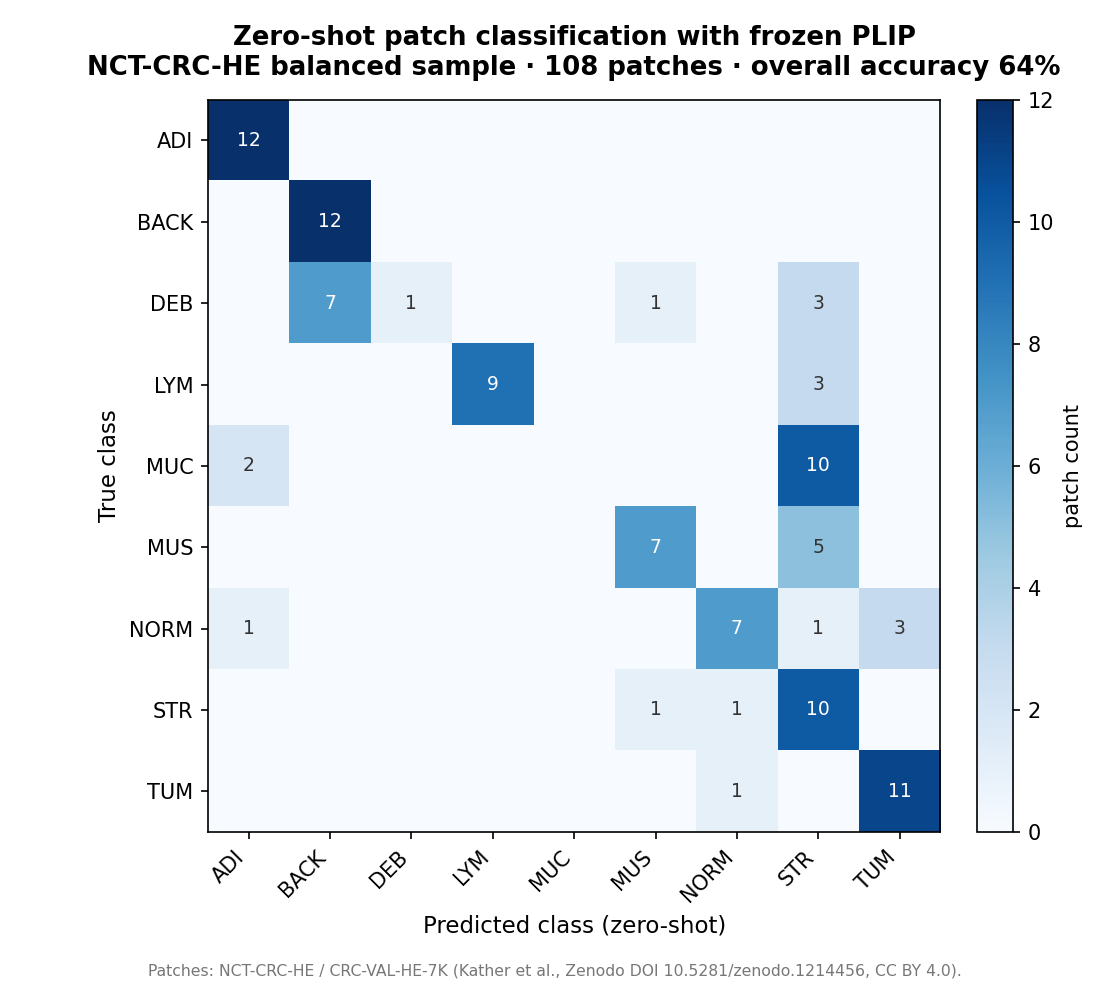
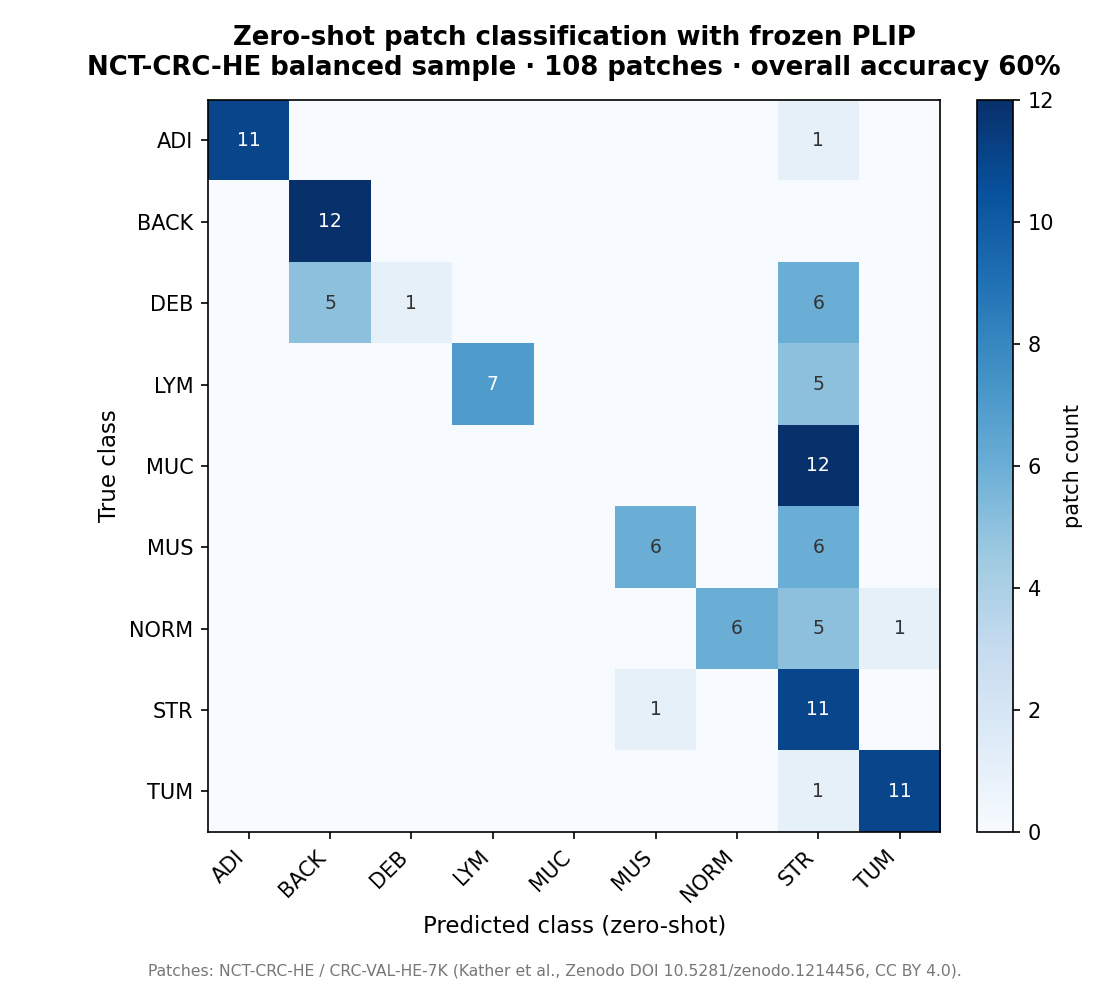
Add frozen CLIP/PLIP/CONCH zero-shot comparison and align prompts
Add a 3-model zero-shot accuracy bar chart (general-domain CLIP at 22% vs
pathology PLIP/CONCH at 60%/59%, over the 1/9 random baseline) as the lead
figure of the real-data section. Use one shared prompt template for every
model so the comparison is fair, and regenerate the PLIP confusion matrix
with the same template so its accuracy (60%) is consistent across figures.

diff --git a/README.md b/README.md
@@ -822,13 +822,21 @@ Exact scores may vary depending on model version and runtime environment.
 
 ## Results on real pathology data
 
-Beyond the synthetic smoke test, here is what a **frozen** PLIP encoder produces on a balanced 108-patch sample of the public NCT-CRC-HE colorectal histology dataset (9 tissue classes, no fine-tuning).
+Beyond the synthetic smoke test, here is what **frozen** vision-language models produce on a balanced 108-patch sample of the public NCT-CRC-HE colorectal histology dataset (9 tissue classes, no fine-tuning). Every model sees the same images and the same prompt template, so the numbers are directly comparable.
 
 <p align="center">
-  <img src="docs/assets/zero_shot_confusion_matrix.png" alt="Confusion matrix of zero-shot patch classification with frozen PLIP on a 108-patch NCT-CRC-HE sample, showing a strong diagonal and 64% overall accuracy across 9 tissue classes." width="680">
+  <img src="docs/assets/model_comparison.png" alt="Bar chart comparing zero-shot tissue-classification accuracy of frozen CLIP, PLIP, and CONCH on a 108-patch NCT-CRC-HE sample: general-domain CLIP reaches 22% while the pathology models PLIP and CONCH reach 60% and 59%, all above the 11% random baseline." width="680">
 </p>
 
-Zero-shot classification (image-text similarity, argmax over the 9 tissue prompts) reaches 64% overall accuracy with no training. The diagonal is strong for distinct tissues (adipose, background, lymphocytes, tumor); the off-diagonal mass honestly shows where a frozen general-purpose encoder struggles, e.g. mucus confused with cancer-associated stroma.
+Domain pretraining is the whole story here: general-domain CLIP lands at 22% with an identical prompt, while the pathology vision-language models PLIP (60%) and CONCH (59%) roughly triple it &mdash; all well above the 1/9 = 11% random baseline, with no fine-tuning. Zero-shot accuracy is also prompt-sensitive, so a single shared template (`an H&E image of {class}.`) is used for every model to keep the comparison fair.
+
+Looking at the strongest zero-shot model (PLIP) in more detail:
+
+<p align="center">
+  <img src="docs/assets/zero_shot_confusion_matrix.png" alt="Confusion matrix of zero-shot patch classification with frozen PLIP on a 108-patch NCT-CRC-HE sample, showing a strong diagonal and 60% overall accuracy across 9 tissue classes." width="680">
+</p>
+
+The per-class confusion matrix (image-text similarity, argmax over the 9 tissue prompts) reaches 60% overall accuracy with no training. The diagonal is strong for distinct tissues (adipose, background, lymphocytes, tumor); the off-diagonal mass honestly shows where a frozen encoder struggles, e.g. mucus confused with cancer-associated stroma.
 
 <p align="center">
   <img src="docs/assets/embedding_projection.png" alt="t-SNE projection of frozen PLIP patch embeddings for a 108-patch NCT-CRC-HE sample, colored by tissue class, showing well-separated clusters per tissue type." width="680">